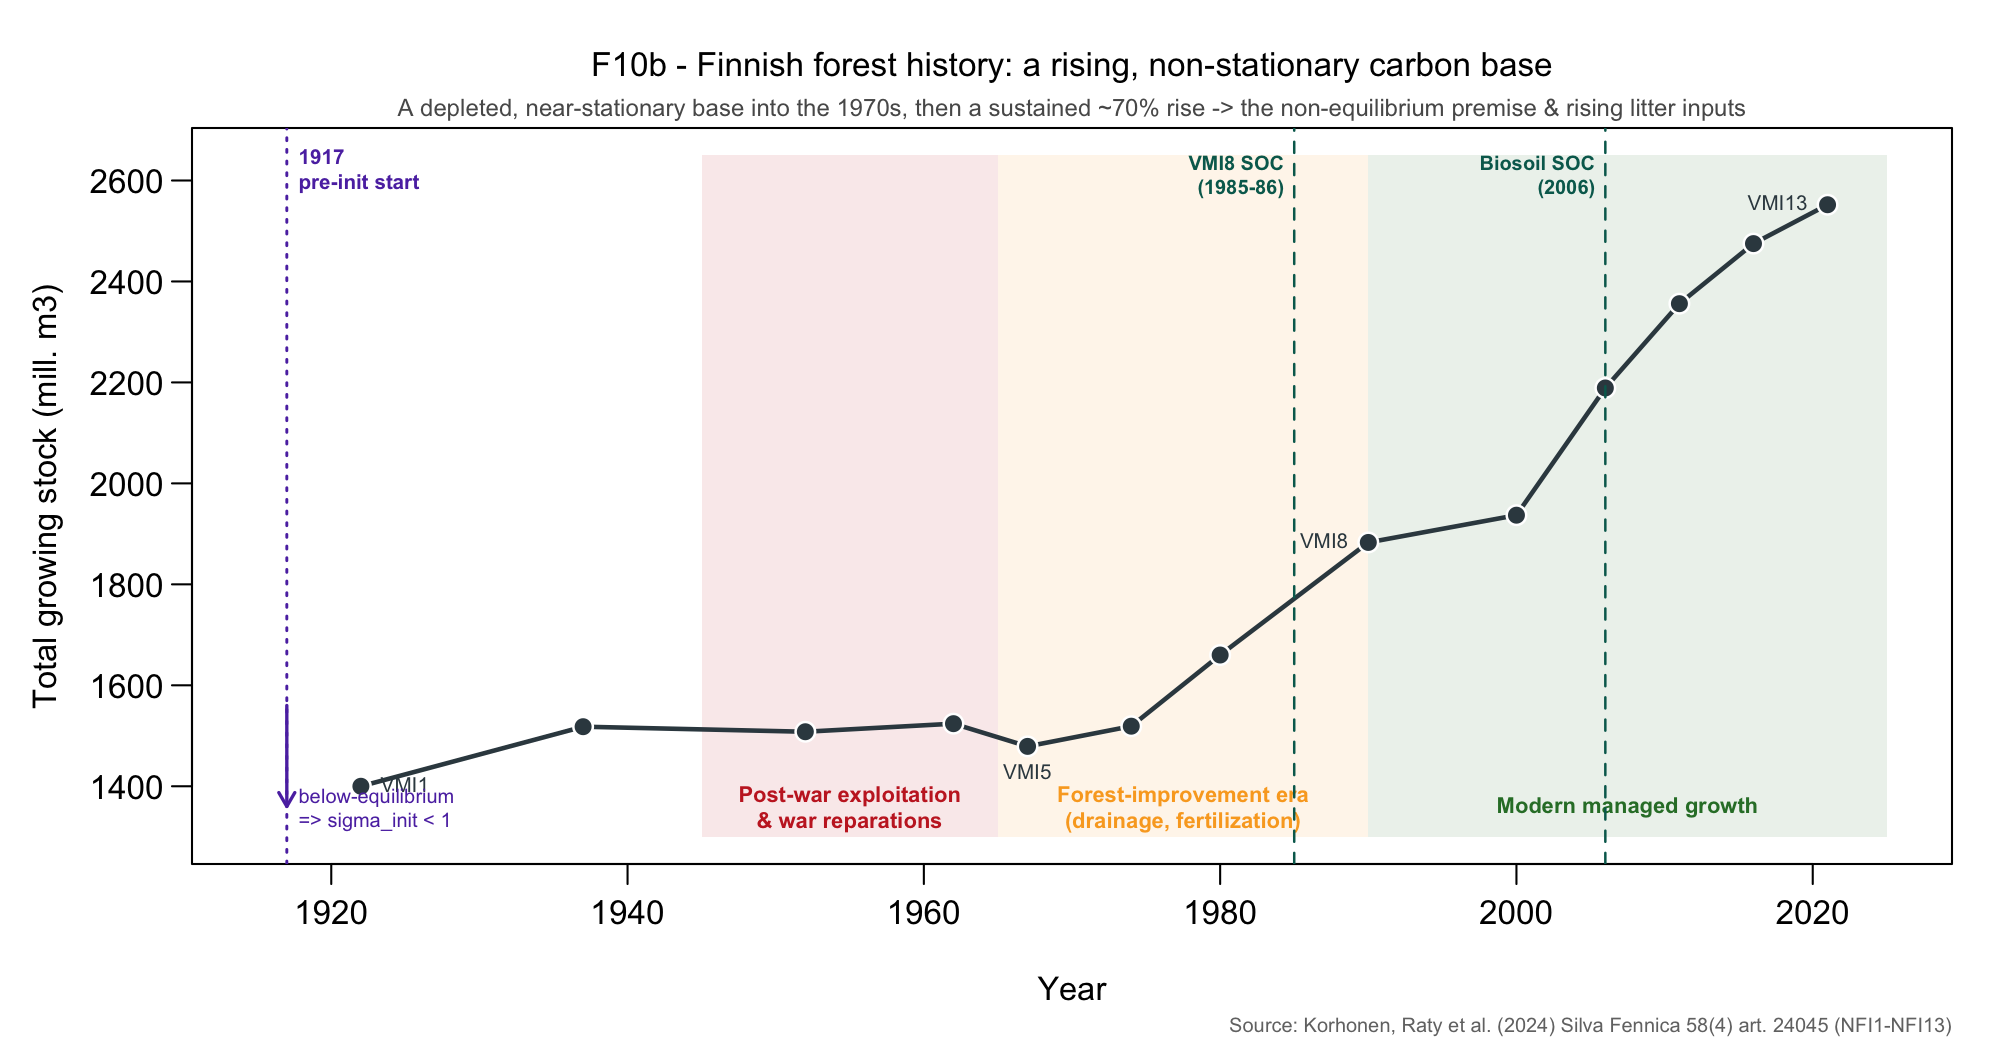
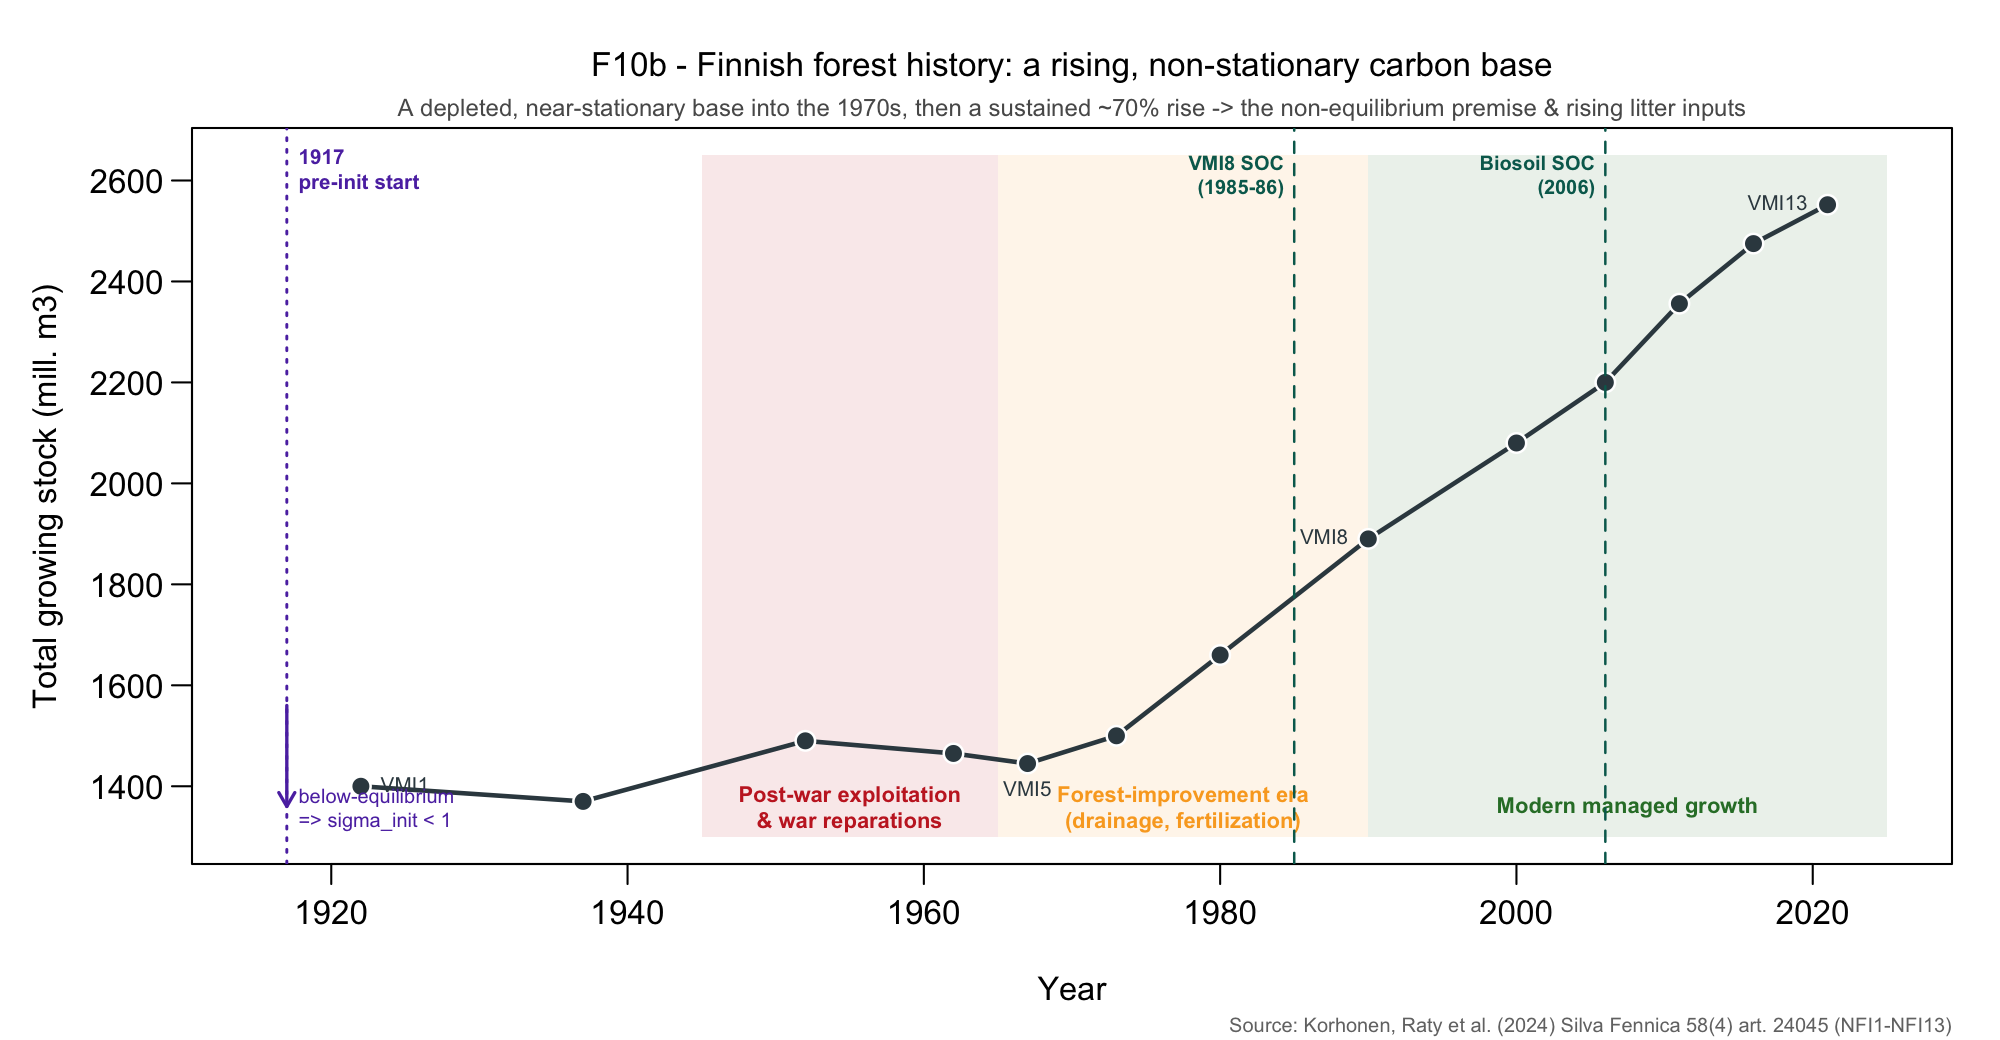
forest history: NFI growing-stock series (Korhonen 2024) as F10b + C3 data source

diff --git a/Data/forest_history/README.md b/Data/forest_history/README.md
@@ -1,0 +1,33 @@
+# Finnish forest history — NFI growing stock
+
+`nfi_growing_stock.csv` — total growing stock volume (million m³) on productive +
+poorly productive forest land, whole Finland, National Forest Inventories NFI1–NFI13.
+
+## Source
+Korhonen K.T., Räty M., Haakana H., Heikkinen J., Hotanen J.-P., Kuronen M.,
+Pitkänen J. (2024). *Forests of Finland 2019–2023 and their development 1921–2023.*
+Silva Fennica 58(5) art. 24045. https://doi.org/10.14214/sf.24045 (open access).
+PDF archived in `literature/Korhonen_etal_2024_ForestsOfFinland_SilvaFennica_24045.pdf`.
+
+## Provenance of each point (see the CSV `provenance` column)
+The paper reports the series **only as Figure 10a** (a plot) plus exact endpoints in
+the text/tables — it does not tabulate the per-inventory series. Therefore:
+
+- **Exact, from the paper:** NFI1 = 1400 (text: "1.4 G m³", recalculated with modern
+  volume functions), NFI11 = 2356, NFI12 = 2475 (= NFI13 − the reported 77 M m³
+  NFI12→NFI13 gain), NFI13 = 2552 (Table 55 / text "2.6 G m³", SE 13).
+- **Digitized from Fig 10a (Total curve), ±~50 M m³:** NFI2–NFI10. The load-bearing
+  feature is the **shape** — a depleted, near-stationary base (~1400–1500) into the
+  ~1970s, then a sustained rise; the paper states "most of the increase … has taken
+  place after the end of the 1960s." Read from the paper's own recalculated curve so
+  the series is internally consistent with the recalculated NFI1 anchor.
+
+## Consumers (single source of truth)
+- `manuscript/figures/build_F10b_forest_history.R` — the F10b history figure.
+- The transient pre-run in the six model wrappers (C3): the 1917→1985 litter-input
+  *shape* is derived from this series (endpoints `J_1917`/`J_1985` stay calibrated;
+  only the shape between them follows growing stock). Only NFI1–NFI7 (+interp to 1985)
+  are used by the pre-run window.
+
+The CSV is checked into git (small, citable); the source PDF is gitignored
+(`literature/*.pdf`, copyright) but catalogued in `literature/README.md`.

diff --git a/literature/README.md b/literature/README.md
@@ -108,6 +108,24 @@ plots (space-for-time, NOT repeated same-plot measurements).
 
 ---
 
+## 5. Korhonen, Räty et al. (2024) — Forests of Finland / NFI growing stock
+`Korhonen_etal_2024_ForestsOfFinland_SilvaFennica_24045.pdf`
+Korhonen K.T., Räty M., Haakana H., Heikkinen J., Hotanen J.-P., Kuronen M., Pitkänen J.
+(2024). *Forests of Finland 2019–2023 and their development 1921–2023.* Silva Fennica
+58(5) art. 24045. https://doi.org/10.14214/sf.24045 (open access).
+
+**Role:** the [History] thread's quantitative backbone — the **rising, non-stationary
+growing-stock base** that physically justifies a below-equilibrium 1917 start
+(`sigma_init < 1`) and rising litter inputs; the source for the **F10b** figure and the
+**C3** growing-stock-shaped pre-run interpolation.
+**Anchors:** total growing stock 1.4 G m³ (NFI1, recalculated) → 2.6 G m³ (NFI13),
+**+84% over 100 yr**; "most of the increase … after the end of the 1960s" (§3.5.2, Fig 10a).
+Series lives *only* as Fig 10a + endpoints (no per-NFI table) → digitized into
+`Data/forest_history/nfi_growing_stock.csv` (endpoints exact, NFI2–NFI10 read ±~50; see
+that folder's README). Supplement S2 Table 55 = NFI13 detailed breakdown (not the series).
+
+---
+
 ## The one-line answer to the coauthor (comments #2/#3)
 Yes: the steady-state convention rests on a lineage (Peltoniemi 2004 chronosequence → YASSO
 development, Palosuo 2008 → operational inventory, Lehtonen 2016) that **lacked repeated soil
